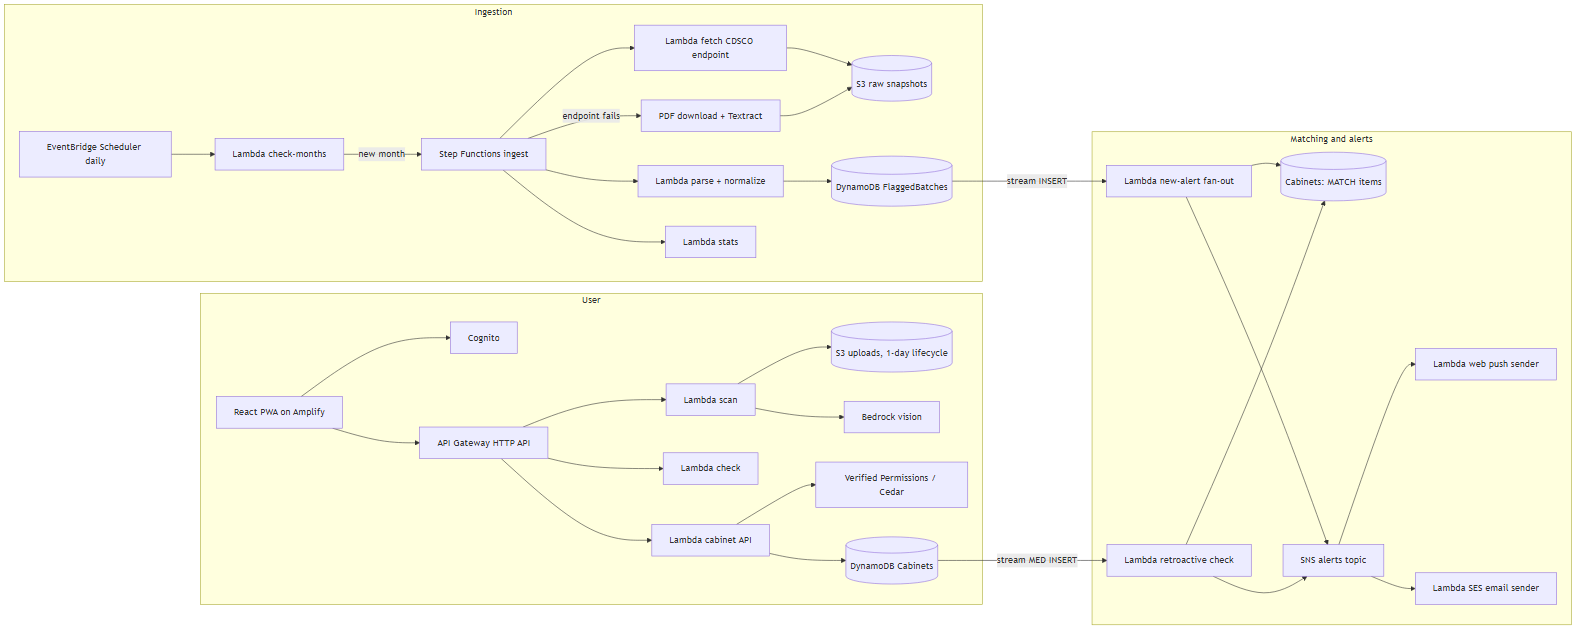
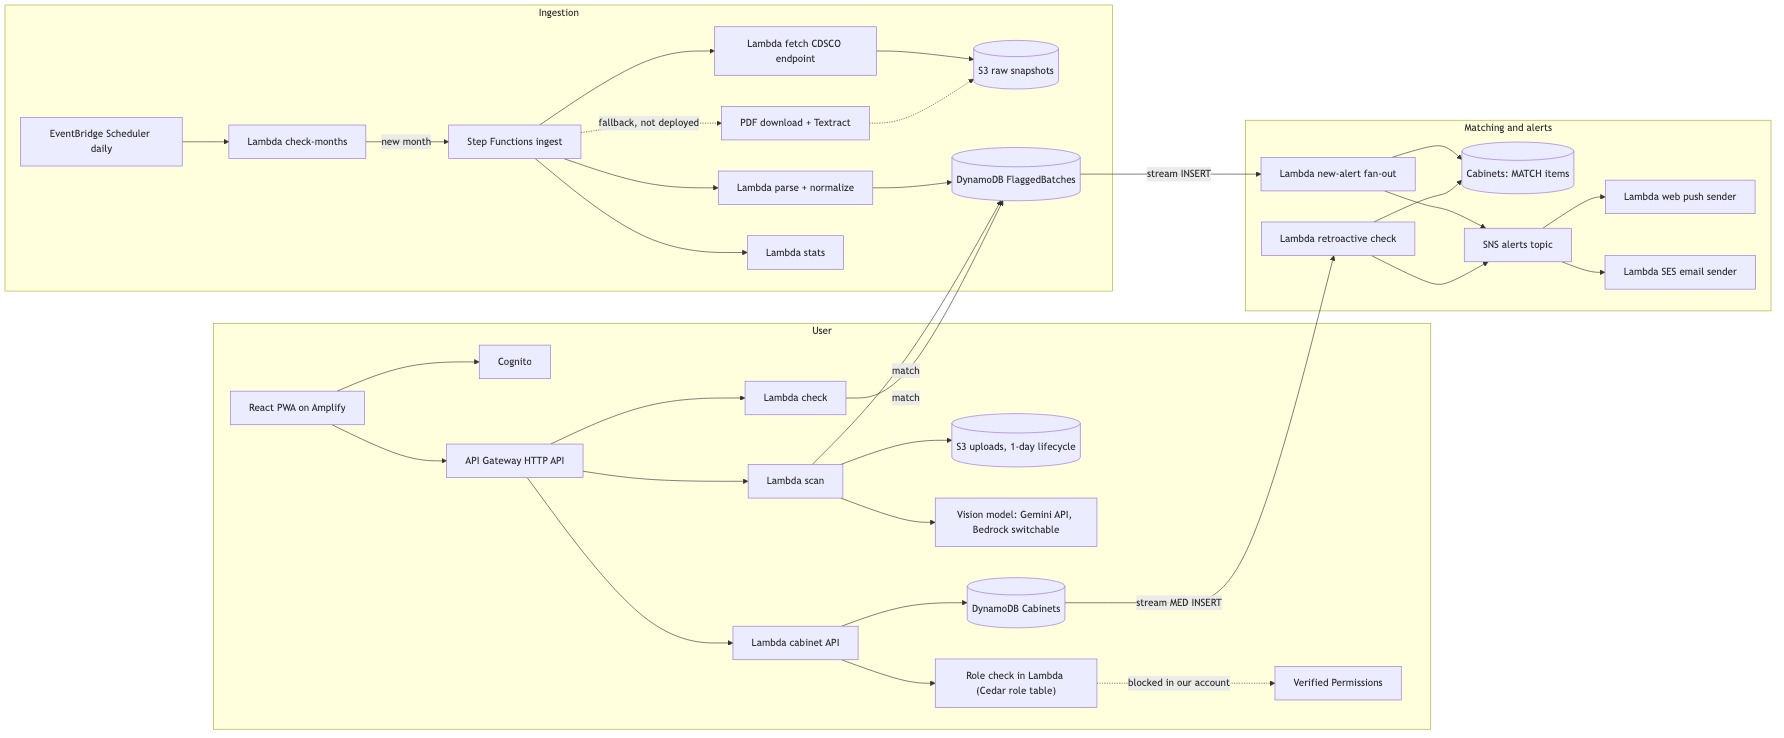
docs(README): explain the architecture in depth and correct the diagram
Add request flows, a design-decisions table, a data-model summary and a
deployment-model note. Correct the diagram to match what is deployed:
the live photo reader is the Gemini API (Bedrock switchable), and the
Textract fallback and Verified Permissions are shown as not live.
Refresh the linked PNG and Mermaid source to match.

diff --git a/README.md b/README.md
@@ -58,17 +58,19 @@ See [`docs/PRODUCT.md`](docs/PRODUCT.md) ("Evidence") for how the hand check and
 ## How it works
 Matching is fully deterministic: [`packages/matching`](packages/matching) alone decides the tier
 (FLAGGED / VERIFY / NO_ALERT_FOUND). No language model ever decides or influences a tier. A model is
-only used to read fields off a photo. See [`docs/MATCHING.md`](docs/MATCHING.md) for the tier rules.
+only used to read fields off a photo, so a misread costs a wrong lookup, never a wrong verdict. See
+[`docs/MATCHING.md`](docs/MATCHING.md) for the tier rules.
 
+### Architecture
 ```mermaid
 flowchart LR
   subgraph Ingestion
     SCH[EventBridge Scheduler daily] --> CHK[Lambda check-months]
     CHK -->|new month| SFN[Step Functions ingest]
     SFN --> FETCH[Lambda fetch CDSCO endpoint]
-    SFN -->|endpoint fails| PDF[PDF download + Textract]
+    SFN -.->|"fallback, not deployed"| PDF["PDF download + Textract"]
     FETCH --> S3R[(S3 raw snapshots)]
-    PDF --> S3R
+    PDF -.-> S3R
     SFN --> PARSE[Lambda parse + normalize]
     PARSE --> FB[(DynamoDB FlaggedBatches)]
     SFN --> STATS[Lambda stats]
@@ -78,10 +80,13 @@ flowchart LR
     WEB --> API[API Gateway HTTP API]
     API --> SCAN[Lambda scan]
     SCAN --> S3U[(S3 uploads, 1-day lifecycle)]
-    SCAN --> BR2[Bedrock vision]
+    SCAN --> VIS["Vision model: Gemini API, Bedrock switchable"]
+    SCAN -->|match| FB
     API --> CHECK[Lambda check]
+    CHECK -->|match| FB
     API --> CAB[Lambda cabinet API]
-    CAB --> AVP[Verified Permissions / Cedar]
+    CAB --> AUTHZ["Role check in Lambda (Cedar role table)"]
+    AUTHZ -.->|"blocked in our account"| AVP[Verified Permissions]
     CAB --> CT[(DynamoDB Cabinets)]
   end
   subgraph Matching and alerts
@@ -95,12 +100,55 @@ flowchart LR
     SNS --> MAIL[Lambda SES email sender]
   end
 ```
-A static copy of the diagram is in [`docs/diagrams/architecture.png`](docs/diagrams/architecture.png).
-[`docs/ARCHITECTURE.md`](docs/ARCHITECTURE.md) explains each service choice.
+Solid arrows are deployed and running. Dotted arrows are written but not live in our AWS account (see
+[Limitations](#limitations)). A static copy of the diagram is in
+[`docs/diagrams/architecture.png`](docs/diagrams/architecture.png), and
+[`docs/ARCHITECTURE.md`](docs/ARCHITECTURE.md) lists each service choice with the alternative rejected, more information in the above .md file.
 
-Both matching directions run off DynamoDB Streams. A new CDSCO row is checked against every saved
-medicine, and a newly saved medicine is checked against the whole CDSCO history, so a family never
-has to remember to re-check.
+
+### Request flows
+1. **Check by photo.** The app asks the API for an upload target and sends the photo straight to S3
+   (bill images are deleted right after extraction). The scan Lambda reads the batch, manufacturer and
+   dates with a vision model and matches them against the flagged batches. The user confirms or
+   corrects the fields on screen. A flagged result cites the alert month, the reporting lab, the
+   original CDSCO link and our stored S3 snapshot.
+2. **Check by typing or QR code.** The app calls the check Lambda, which runs the same matching and
+   returns the same kind of result.
+3. **Save a medicine.** The cabinet Lambda checks the caller's role, then writes the medicine to the
+   Cabinets table. That write triggers a DynamoDB Stream. The retroactive Lambda checks the whole
+   CDSCO history for that batch, records a MATCH item and publishes to SNS, which sends web push and
+   email to the cabinet's members who have alerts on.
+4. **A new CDSCO list is published.** EventBridge runs a daily check for a new month. Step Functions
+   fetches the CDSCO endpoint, saves the raw response to S3, then parses and normalizes the rows into
+   the FlaggedBatches table. Each new row triggers the fan-out Lambda, which finds saved medicines with
+   the same batch across all cabinets, matches them and alerts through the same SNS topic.
+
+Flows 3 and 4 are the two matching directions. Both are driven by DynamoDB Streams, so a family never
+has to remember to re-check a medicine they already saved.
+
+### Design decisions
+| Decision | Why |
+|---|---|
+| The tier is decided by our own code, not a model | A wrong safety verdict from a model is unacceptable. A model only reads a photo. |
+| Save every raw CDSCO response to S3 before parsing | It proves what CDSCO published and when, lets us re-parse without fetching again, and keeps our fetching polite (at most daily, 2 seconds between requests). |
+| Use CDSCO's structured endpoint, with PDF OCR only as a fallback | A clean endpoint is cheaper and more accurate than OCR. Textract stays a fallback for months the endpoint does not cover, and it is not deployed. |
+| Step Functions for ingestion, not one large Lambda | Retries, a visible execution history, a Map state for the backfill and a Choice state for the fallback. One Lambda would hit timeouts and hide failures. |
+| DynamoDB on demand with Streams, not a relational database | Lookups are by batch key. Streams trigger both matching directions from writes, with no polling and no idle cost. |
+| SNS between the matchers and the senders | Adding a channel is a new subscription. The matchers never call push or email directly. |
+| Idempotent writes throughout | Flagged rows and MATCH items use conditional writes and the senders use Powertools idempotency, so re-running ingestion never duplicates data or notifies anyone twice. |
+| Web Push and email, not SMS or WhatsApp | India's SMS (DLT) and WhatsApp verification take too long, and Web Push needs no app store. |
+| Serverless and pay per use throughout | Lambda, DynamoDB on demand, Step Functions, the HTTP API and S3 cost nothing when idle, which suits a small, spiky workload. |
+
+### Data model
+- **FlaggedBatches:** one item per flagged batch per alert, keyed by the normalized batch number. Secondary
+  indexes cover a normalized batch "skeleton" (for near matches, see [`docs/MATCHING.md`](docs/MATCHING.md))
+  and the alert month.
+- **Cabinets:** a single table holding cabinets, members, invites, saved medicines and MATCH items. An
+  index on the batch skeleton lets a new CDSCO row find every affected saved medicine.
+- **S3:** three buckets, for raw CDSCO snapshots (versioned and kept), uploads (expire after one day)
+  and public metrics.
+
+The full key design is in [`docs/DATA_MODEL.md`](docs/DATA_MODEL.md).
 
 ### AWS services
 Everything runs in `ap-south-1`, is defined in AWS CDK, and scales to zero.
@@ -124,6 +172,11 @@ Everything runs in `ap-south-1`, is defined in AWS CDK, and scales to zero.
 Photo reading currently uses the **Gemini API** from a Lambda (key in Secrets Manager), because
 Bedrock invocation is refused in our AWS account. The provider is an SSM parameter, so switching to
 Bedrock needs no redeploy. It only reads fields and never sees or decides a tier.
+
+### Deployment model
+Infrastructure is AWS CDK (TypeScript) in [`infra/`](infra). A shared stack owns the tables, buckets,
+SNS topic, Cognito user pool and HTTP API. Each service has its own stack that imports those resources
+through SSM parameters and adds its Lambdas, routes and subscriptions. Everything runs in `ap-south-1`.
 
 ## Screenshots
 Screens from the deployed app, using the sample data behind guest mode.
